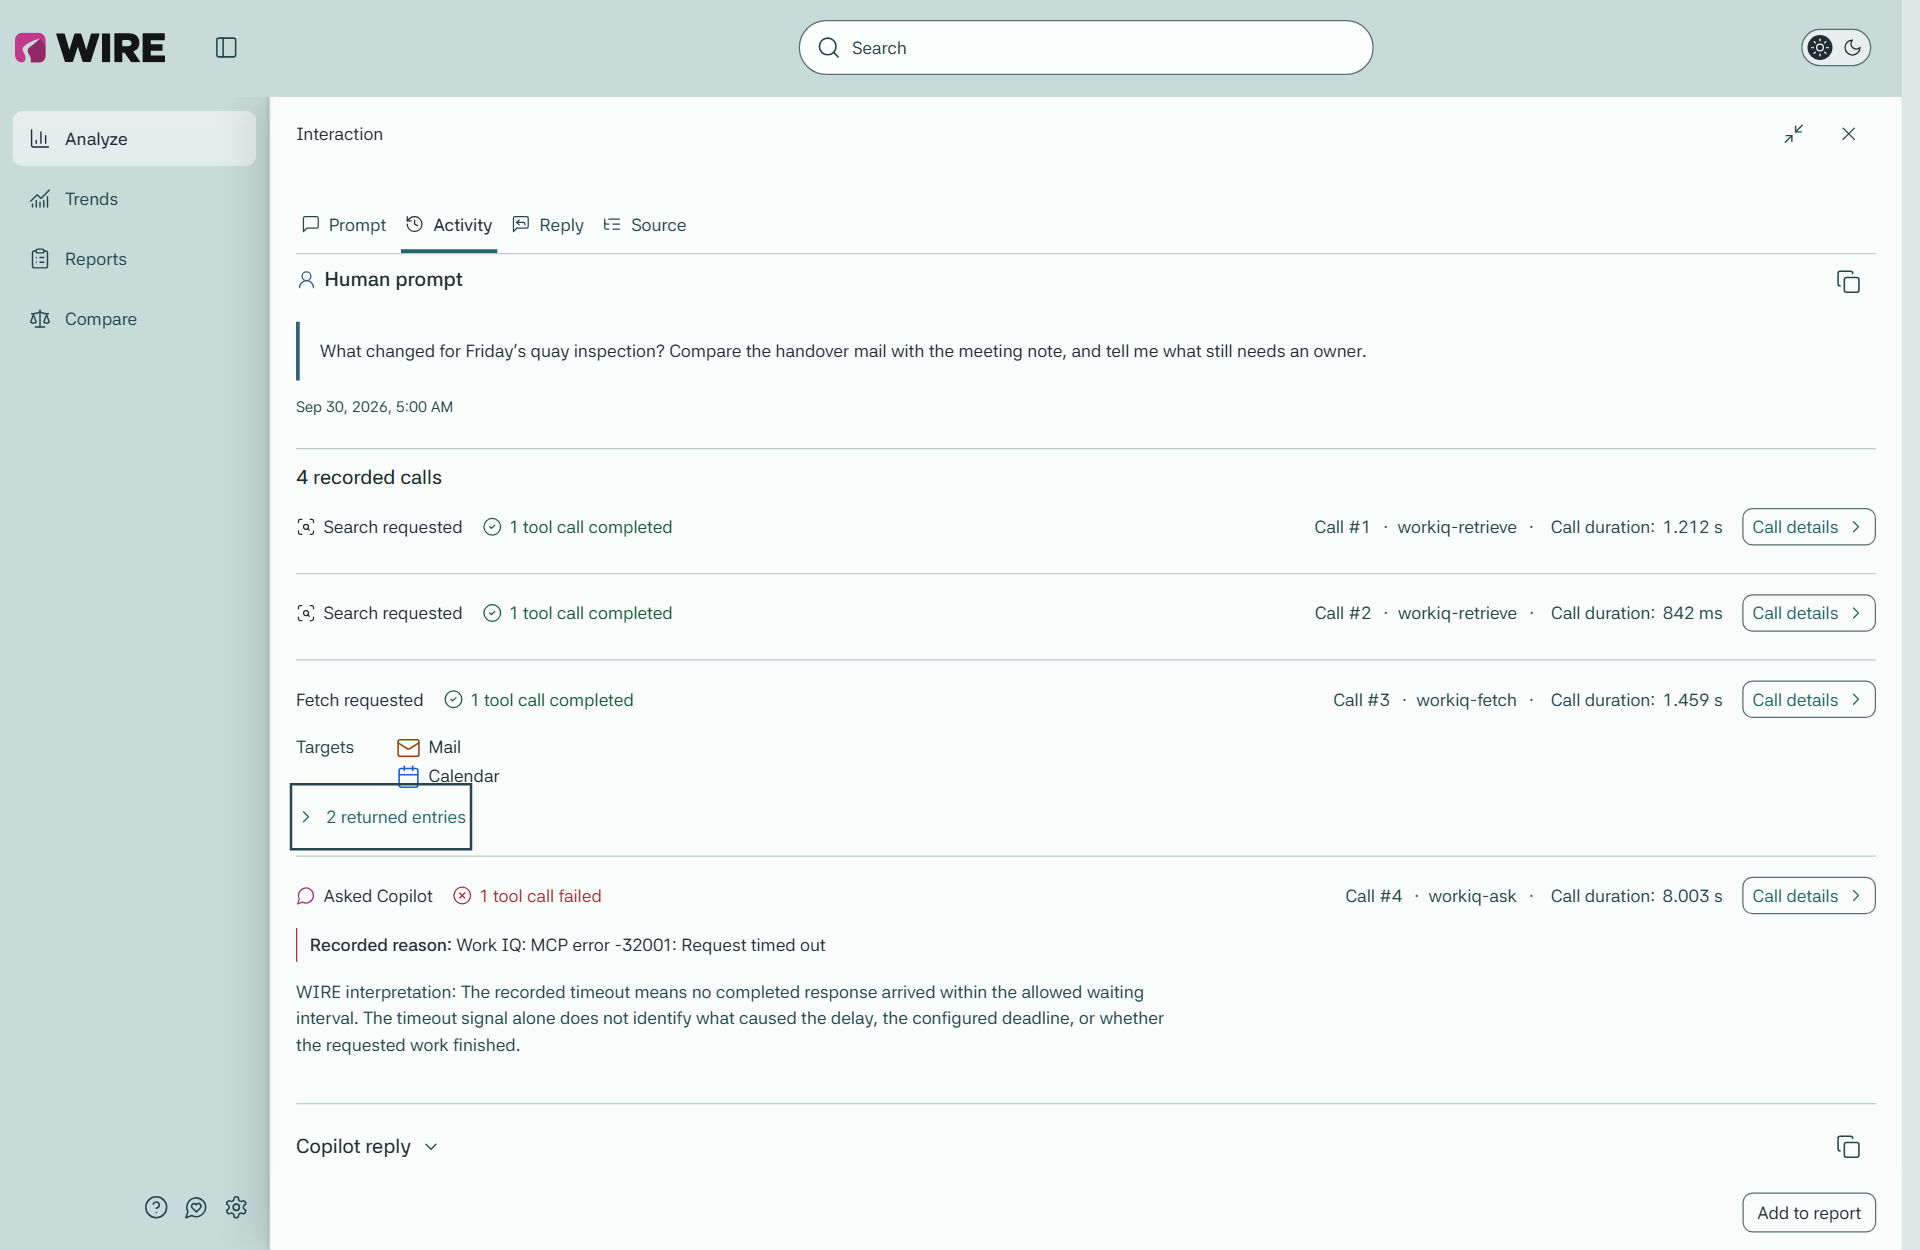
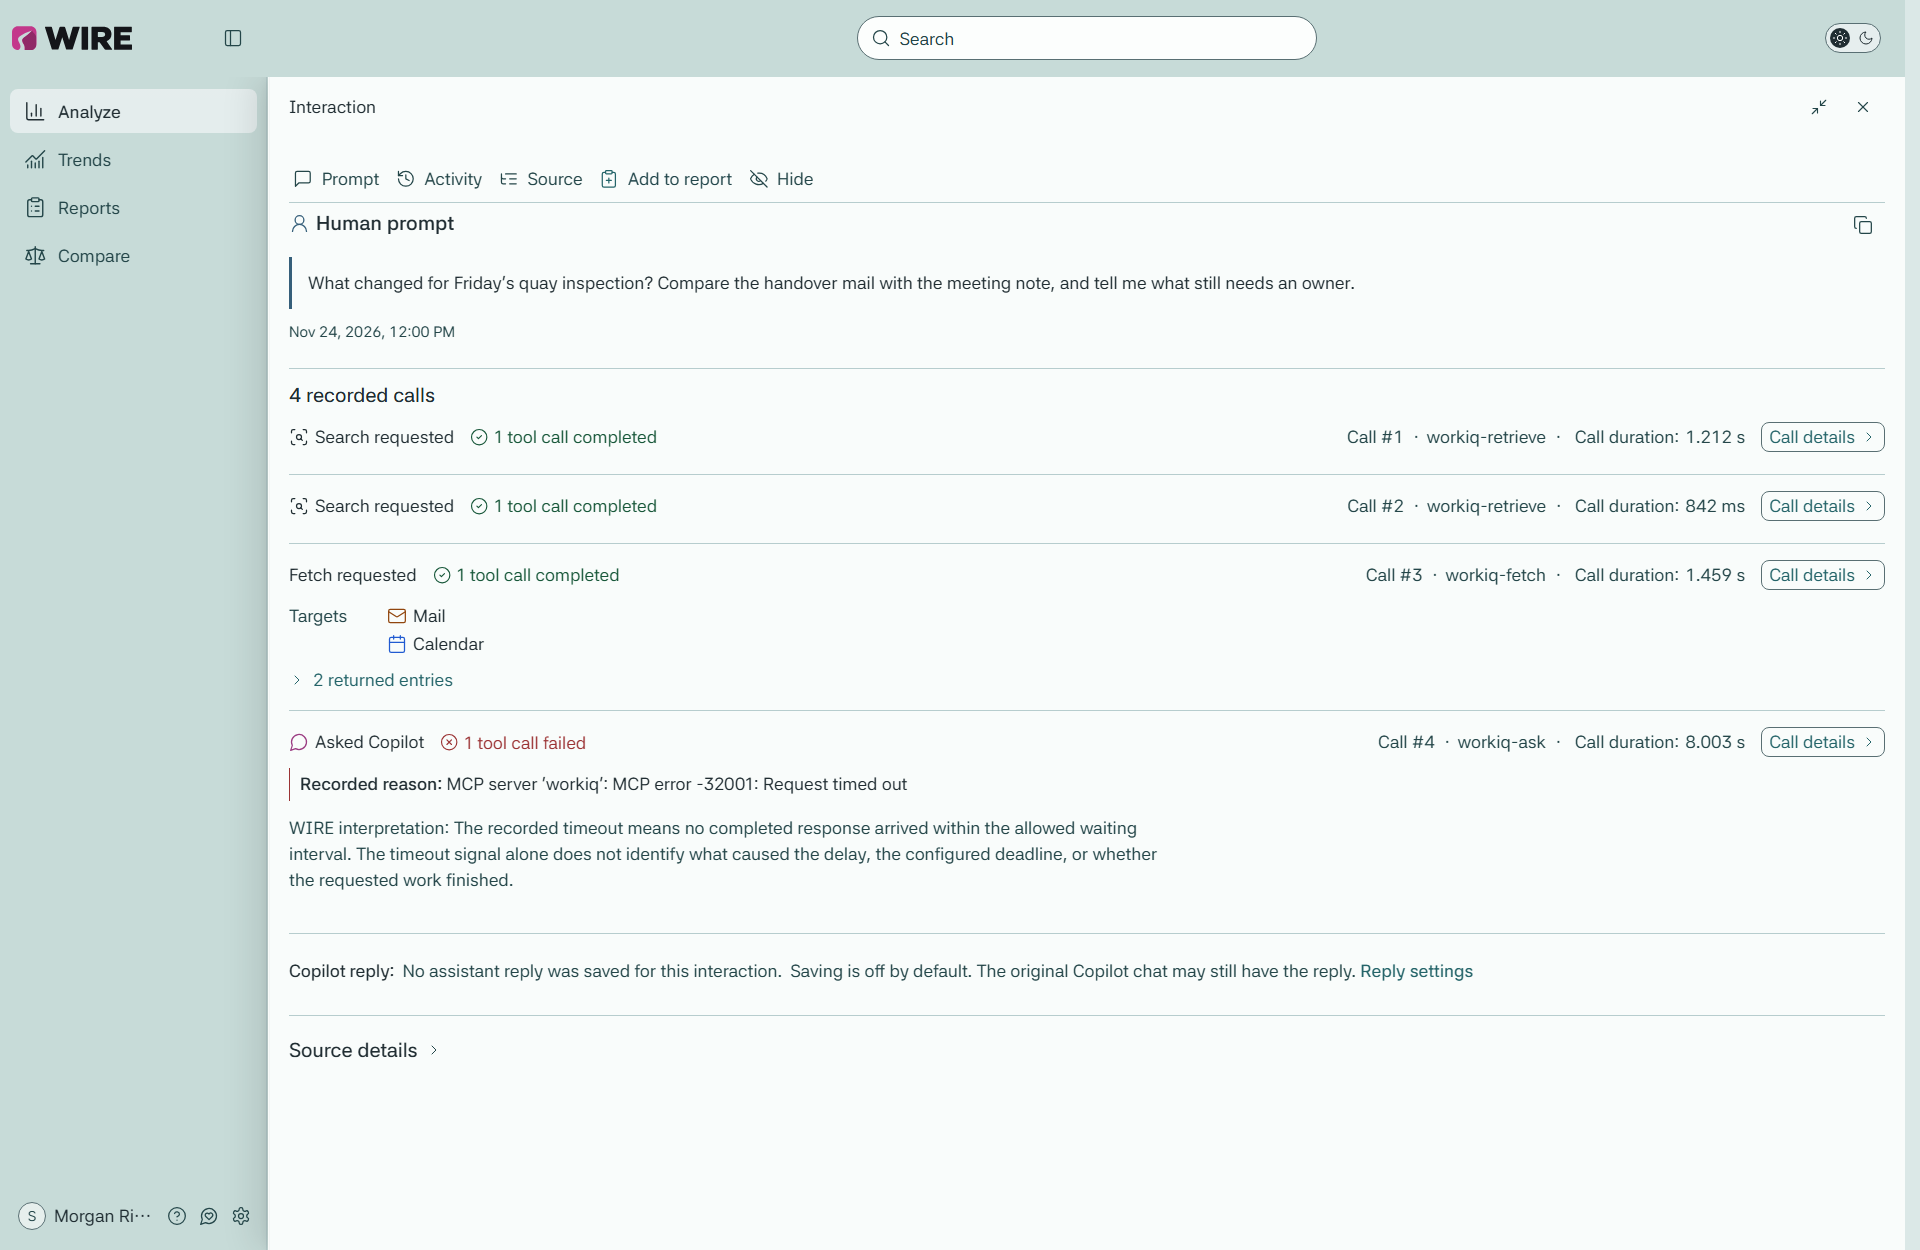
Document how to hide and restore interaction cards

diff --git a/docs/user-guide.md b/docs/user-guide.md
@@ -315,22 +315,6 @@ for baseline and selected dates, missing values, and the calls behind a change.
 
 ## Inspect an interaction
 
-For a demo, choose **Hide** beside **Add to report** on a local Copilot card.
-The card disappears immediately. **Undo hide** brings it back; **Hidden cards**
-lets you restore one or all later without showing their prompts in the list.
-In **Settings → Analyze**, choose whether a new hide lasts until you restore
-it or only in this tab. Changing the default leaves existing hides alone.
-
-Trends and Compare still count the calls, but their detail lists don’t show
-the hidden interaction. Search leaves its excerpts out. A report draft keeps
-its selection; WIRE holds back a preview that could display hidden text.
-
-While a card is hidden in this tab, **no saved report or saved comparison
-opens in WIRE or appears in Search results**, even one about different work.
-A saved report can quote a neighboring interaction that it didn’t count.
-Restore the hidden cards to read saved files in WIRE again. The files themselves
-and copies you’ve already shared are unchanged.
-
 The count above the cards follows your filters. **Collection status** shows
 the contributing chats, projects and source coverage. An actual coverage
 warning stays beside the affected activity.
@@ -400,6 +384,26 @@ Use **Add to report** on the card or in its reader. Choose a draft to add the en
 leaving Analyze. Reopen the picker to add it to another draft or remove it from
 one. See [Keep interactions in a draft](reporting.md#keep-interactions-in-a-draft)
 to prepare, save or delete that selection.
+
+### Hide and restore cards
+
+On a local Copilot interaction card in Analyze, choose **Hide**. To bring it
+back right away, choose **Undo hide** above the list. Later, open **Hidden
+cards** and choose **Restore** for one card or **Restore all**.
+
+![Hidden cards lists each card by number and the time you hid it, without showing its prompt.](images/hidden-cards.png)
+
+Cards stay hidden until you restore them. For a shorter duration, go to
+**Settings → Analyze → Keep hidden cards out of view** and choose **Only in
+this tab**. The setting applies the next time you hide a card.
+
+Hiding a card leaves the counts in Analyze, Trends and Compare unchanged.
+Its prompt and call details stay out of view, including in Search. A report
+draft keeps its selection, but WIRE won’t show a preview that could reveal
+the card. While any card is hidden in this tab, **all saved reports and
+comparisons** stay closed in WIRE and out of Search: even a report about
+other work can quote the hidden interaction. Files you’ve saved or shared
+don’t change.
 
 ## Make a report
 

diff --git a/docs/development.md b/docs/development.md
@@ -403,6 +403,8 @@ Set `WIRE_DOC_CAPTURE=reports` for report choices, reading, copy inspection,
 file views and Save/Open without recapturing Analyze, comparisons or Settings.
 Set `WIRE_DOC_CAPTURE=analyze` for Analyze, the outcome link and reader, and the README overview, without
 creating saved-report fixtures or visiting unrelated destinations.
+Use `WIRE_DOC_CAPTURE=cards` for those views plus the draft picker, Search,
+and the **Hidden cards** list with its restore actions.
 
 The capture uses the feature checkout's compiled React renderer and requires
 committed product source. It uses an available loopback port
